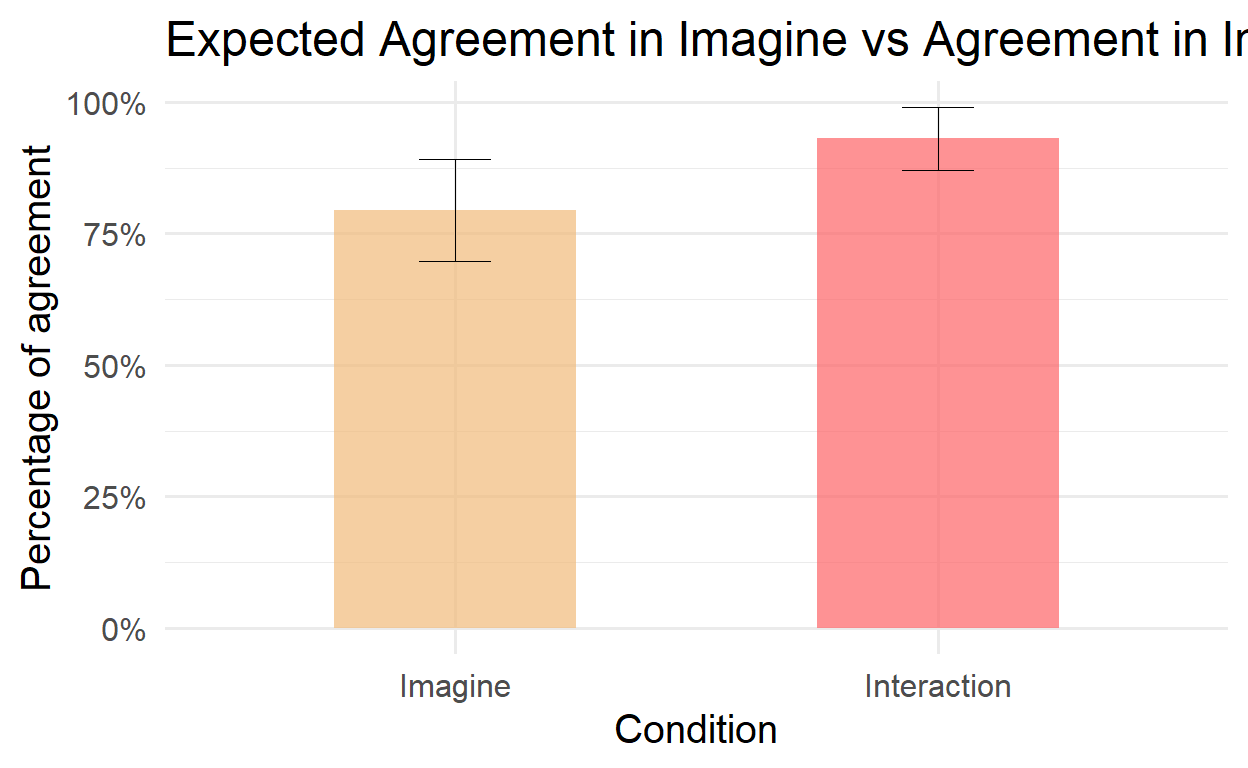
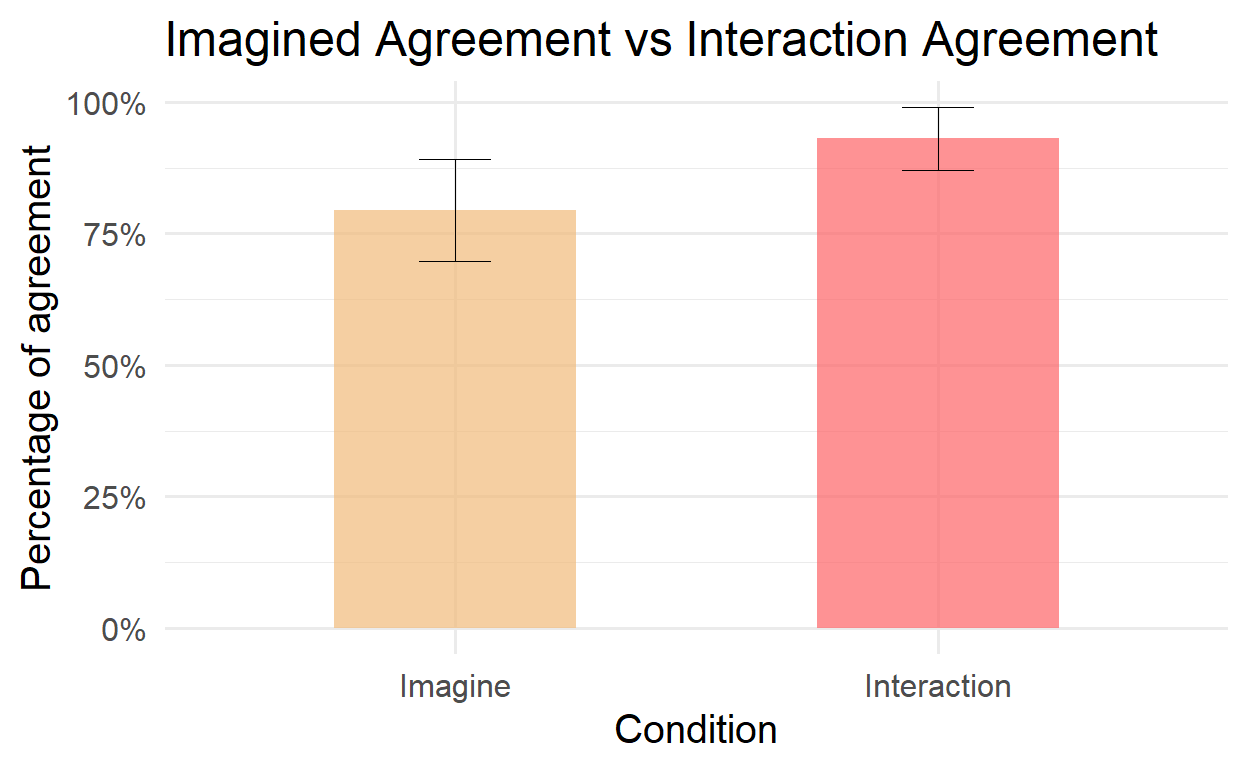
changed title in plot 2

Changed region(s): [[0.125, 0.0312, 1.0, 0.0938]]

diff --git a/_posts/2019-03-20-plot-2/plot-2.html b/_posts/2019-03-20-plot-2/plot-2.html
@@ -49,7 +49,7 @@
   <!--/radix_placeholder_rmarkdown_metadata-->
   
   <script type="text/json" id="radix-resource-manifest">
-  {"type":"character","attributes":{},"value":["plot-2_files/figure-html5/finalp2-1.png","plot-2_files/figure-html5/try1p2-1.png","plot-2_files/figure-html5/try2p2-1.png"]}
+  {"type":"character","attributes":{},"value":["plot-2_files/bowser-1.9.3/bowser.min.js","plot-2_files/distill-2.2.21/template.v2.js","plot-2_files/figure-html5/finalp2-1.png","plot-2_files/figure-html5/try1p2-1.png","plot-2_files/figure-html5/try2p2-1.png","plot-2_files/jquery-1.11.3/jquery.min.js","plot-2_files/webcomponents-2.0.0/webcomponents.js"]}
   </script>
   <!--radix_placeholder_navigation_in_header-->
   <!--/radix_placeholder_navigation_in_header-->

diff --git a/docs/posts/2019-03-20-plot-2/index.html b/docs/posts/2019-03-20-plot-2/index.html
@@ -50,7 +50,7 @@
 <!--/radix_placeholder_rmarkdown_metadata-->
   
   <script type="text/json" id="radix-resource-manifest">
-  {"type":"character","attributes":{},"value":["plot-2_files/figure-html5/finalp2-1.png","plot-2_files/figure-html5/try1p2-1.png","plot-2_files/figure-html5/try2p2-1.png"]}
+  {"type":"character","attributes":{},"value":["plot-2_files/bowser-1.9.3/bowser.min.js","plot-2_files/distill-2.2.21/template.v2.js","plot-2_files/figure-html5/finalp2-1.png","plot-2_files/figure-html5/try1p2-1.png","plot-2_files/figure-html5/try2p2-1.png","plot-2_files/jquery-1.11.3/jquery.min.js","plot-2_files/webcomponents-2.0.0/webcomponents.js"]}
   </script>
   <!--radix_placeholder_navigation_in_header-->
 

diff --git a/docs/index.html b/docs/index.html
@@ -1667,7 +1667,7 @@ reading what I have to say!</p>
 <a href="#">More articles &raquo;</a>
 </div>
 </div>
-<!--/radix_placeholder_article_listing-->
+<!--/radix_placeholder_article_listing-->
 
 <div class="d-title">
 <h1>My Final Project Blog</h1>
